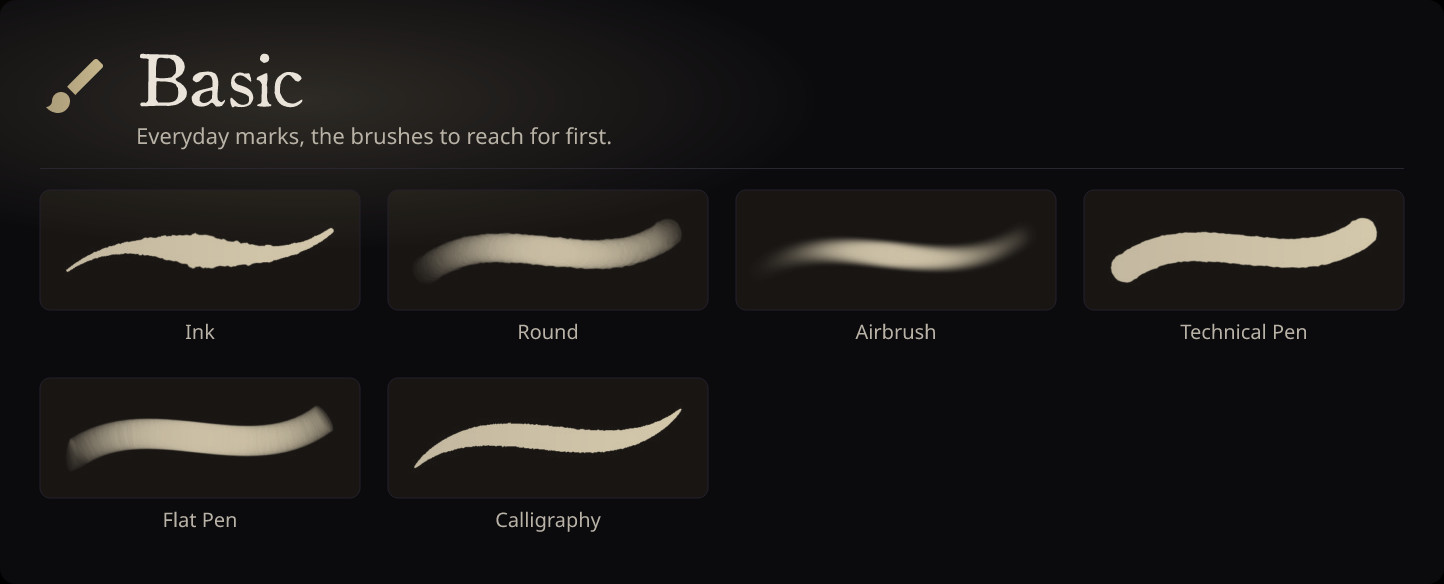
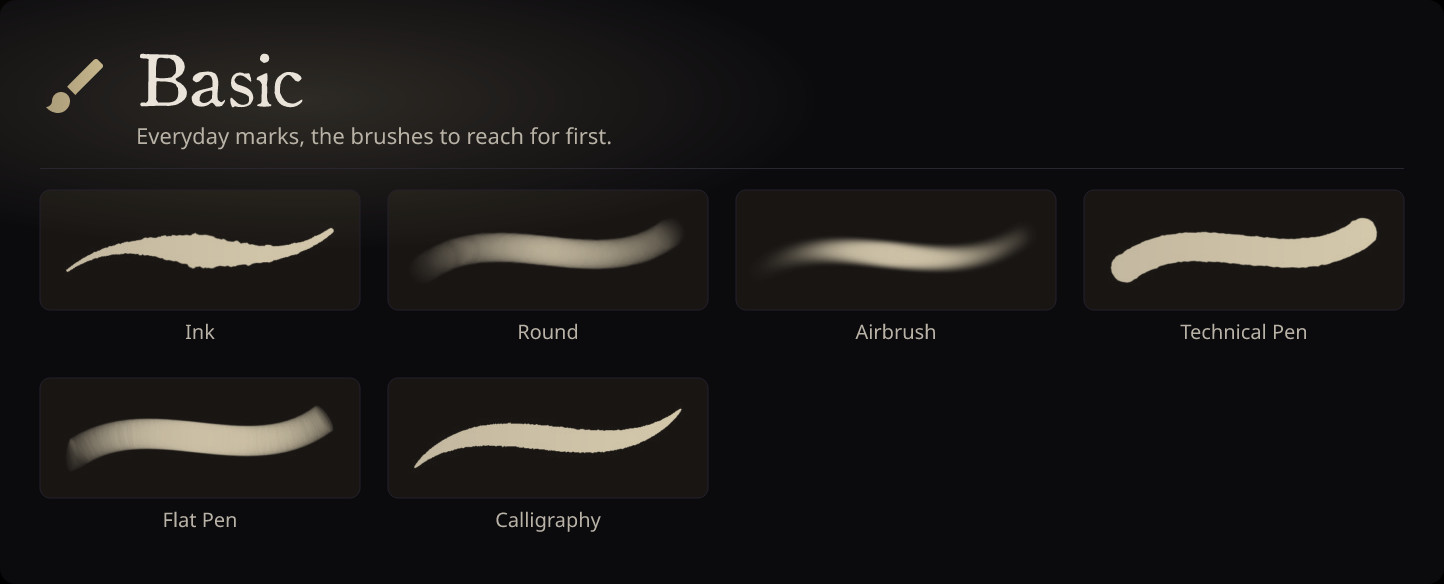
brush system polish

Changed region(s): [[0.3116, 0.3699, 0.4675, 0.4623]]

diff --git a/crates/darkly/src/brush/nodes/paint.rs b/crates/darkly/src/brush/nodes/paint.rs
@@ -1035,14 +1035,24 @@ impl BrushNodeEvaluator for PaintEvaluator {
         // standing for the loaded texel. The store is skipped where the
         // packed result equals the loaded word (a refused wash dab, say),
         // which is exact: an equal store changes nothing.
-        let store = |target: &str, law: &str| {
+        let store_with = |target: &str, law: &str, pack: &str| {
             let law = law.replace("DST", &format!("unpack_ground({target}_was)"));
+            let packed = pack.replace("LAW", &law);
             format!(
                 "    let {target}_was = textureLoad({target}, layer_px);\n\
-                 \x20   let {target}_now = pack_ground({law});\n\
+                 \x20   let {target}_now = {packed};\n\
                  \x20   if ({target}_now.r != {target}_was.r) {{\n\
                  \x20       textureStore({target}, layer_px, {target}_now);\n\
                  \x20   }}\n"
+            )
+        };
+        let store = |target: &str, law: &str| store_with(target, law, "pack_ground(LAW)");
+        // Build-up rounds stochastically; see `build_dither`.
+        let store_build = |target: &str, law: &str| {
+            store_with(
+                target,
+                law,
+                "pack_ground_dithered(LAW, build_dither(canvas_px, d.pos))",
             )
         };
         if cctx.input("mode").enum_index() == MODE_MOVE {
@@ -1100,7 +1110,7 @@ impl BrushNodeEvaluator for PaintEvaluator {
         } else if wash_share <= 0.0 {
             // Build-up alone: the ground composites every dab over the last.
             body.push_str("    let src = rgba * build_flow * sel;\n");
-            body.push_str(&store(GROUND_NAME, "accumulate_build(src, DST)"));
+            body.push_str(&store_build(GROUND_NAME, "accumulate_build(src, DST)"));
         } else {
             // Both: the one dispatch writes each half into the
             // accumulation that runs its law, scaled by its share.
@@ -1111,7 +1121,7 @@ impl BrushNodeEvaluator for PaintEvaluator {
                 "    let build_src = rgba * build_flow * sel * {build_share:.6};\n"
             ));
             body.push_str(&store(GROUND_NAME, "accumulate_wash(wash_src, DST)"));
-            body.push_str(&store(
+            body.push_str(&store_build(
                 BUILD_CHANNEL.name,
                 "accumulate_build(build_src, DST)",
             ));

diff --git a/crates/darkly/tests/wgsl.rs b/crates/darkly/tests/wgsl.rs
@@ -1926,10 +1926,20 @@ fn paint_terminal_compiles_the_accumulation_dial_to_storage_and_stores() {
     // A ground's read-modify-write: the law runs on the loaded texel and
     // the packed result is stored only where it differs from what was
     // there, so a refused dab costs a load and no store.
+    // Build-up rounds its store stochastically; the other laws round to
+    // nearest.
     let guarded_store = |target: &str, law: &str, src: &str| {
+        let packed = if law == "accumulate_build" {
+            format!(
+                "pack_ground_dithered({law}({src}, unpack_ground({target}_was)), \
+                 build_dither(canvas_px, d.pos))"
+            )
+        } else {
+            format!("pack_ground({law}({src}, unpack_ground({target}_was)))")
+        };
         format!(
             "    let {target}_was = textureLoad({target}, layer_px);\n\
-             \x20   let {target}_now = pack_ground({law}({src}, unpack_ground({target}_was)));\n\
+             \x20   let {target}_now = {packed};\n\
              \x20   if ({target}_now.r != {target}_was.r) {{\n\
              \x20       textureStore({target}, layer_px, {target}_now);\n\
              \x20   }}\n"
@@ -2271,9 +2281,14 @@ fn authored_buildup_picks_the_accumulation_shape() {
     // The law a ground accumulates under, as the line that computes its
     // next texel.
     let stores = |compiled: &darkly::brush::wgsl::CompiledBrush, target: &str, law: &str| {
+        let pack = if law == "accumulate_build" {
+            "pack_ground_dithered"
+        } else {
+            "pack_ground"
+        };
         compiled
             .stroke_wgsl
-            .contains(&format!("let {target}_now = pack_ground({law}("))
+            .contains(&format!("let {target}_now = {pack}({law}("))
     };
 
     let top = compiled_at(Some(1.0));

diff --git a/crates/darkly/tests/brush_accumulation.rs b/crates/darkly/tests/brush_accumulation.rs
@@ -849,6 +849,34 @@ fn the_top_of_the_dial_stacks_dabs_by_source_over() {
     );
 }
 
+/// Regression: low-flow build-up stalled well short of opaque. The ground is
+/// 8-bit, and a source-over increment of `flow * (1 - a)` rounds to nothing
+/// once it falls below half a step, so at 1% flow a pixel stopped at about
+/// 80% however often the stroke went back over it. Stochastic rounding keeps
+/// the increments, so the same scrub carries on to nearly opaque.
+#[test]
+fn low_flow_build_up_keeps_darkening_toward_opaque() {
+    let mut engine = test_engine();
+    let layer = engine.add_raster_layer(None);
+    install_fixture(&mut engine, Some(BUILD_UP));
+    set_spacing(&mut engine, 0.02);
+    // Flow per dab is `pressure * b`; at pressure 1.0 it is 1%.
+    let mul = find_node_id(&engine, "multiply");
+    engine
+        .brush_graph_set_input(&mul, "b", InputValue::Scalar(0.01))
+        .expect("multiply factor port");
+    // Ten passes at this spacing land several hundred dabs on each interior
+    // pixel: 1 - 0.99^500 is above 99%.
+    stroke_centreline(&mut engine, layer, 1.0, 10);
+
+    let density = median(&centreline_alpha(&engine, layer));
+    assert!(
+        density >= 245,
+        "a 1% flow scrubbed over itself should approach opaque; the median \
+         centreline alpha stopped at {density}"
+    );
+}
+
 /// A `buildup` authored in a brush file reaches *both* reads of the port.
 ///
 /// Every other test here selects the law with `brush_graph_set_input`, which

diff --git a/crates/darkly/src/brush/nodes/polygon.rs b/crates/darkly/src/brush/nodes/polygon.rs
@@ -66,10 +66,10 @@ pub fn register() -> BrushNodeRegistration {
                 PortDef::input("softness", BrushWireType::Scalar)
                     .with_range(0.0, 1.0, 0.0)
                     .with_natural_range(0.0, 1.0)
-                    .with_label("Softness")
+                    .with_label("Feather")
                     .with_unit(UnitType::Percent)
                     .with_icon("fa6-solid:feather")
-                    .with_description("Edge softness (0% = hard, 100% = feathered)"),
+                    .with_description("How far the edge fades out (0% = hard, 100% = fully feathered)"),
                 // No `natural_range`: radians are a unit, not a normalized
                 // signal. `pen.drawing_angle → rotation_input` passes through
                 // raw and sums with the artist's `rotation` offset.

diff --git a/crates/darkly/src/brush/nodes/circle.rs b/crates/darkly/src/brush/nodes/circle.rs
@@ -63,10 +63,10 @@ pub fn register() -> BrushNodeRegistration {
             PortDef::input("softness", BrushWireType::Scalar)
                 .with_range(0.0, 1.0, 0.5)
                 .with_natural_range(0.0, 1.0)
-                .with_label("Softness")
+                .with_label("Feather")
                 .with_unit(UnitType::Percent)
                 .with_icon("fa6-solid:feather")
-                .with_description("Edge softness (0% = hard, 100% = feathered)"),
+                .with_description("How far the edge fades out (0% = hard, 100% = fully feathered)"),
             // amplitude is meaningful for Sine and Perlin (modulates the
             // bumpy boundary); the Superformula's amplitude is implicit in
             // its n1/n2/n3 instead, so we hide this knob for it.
